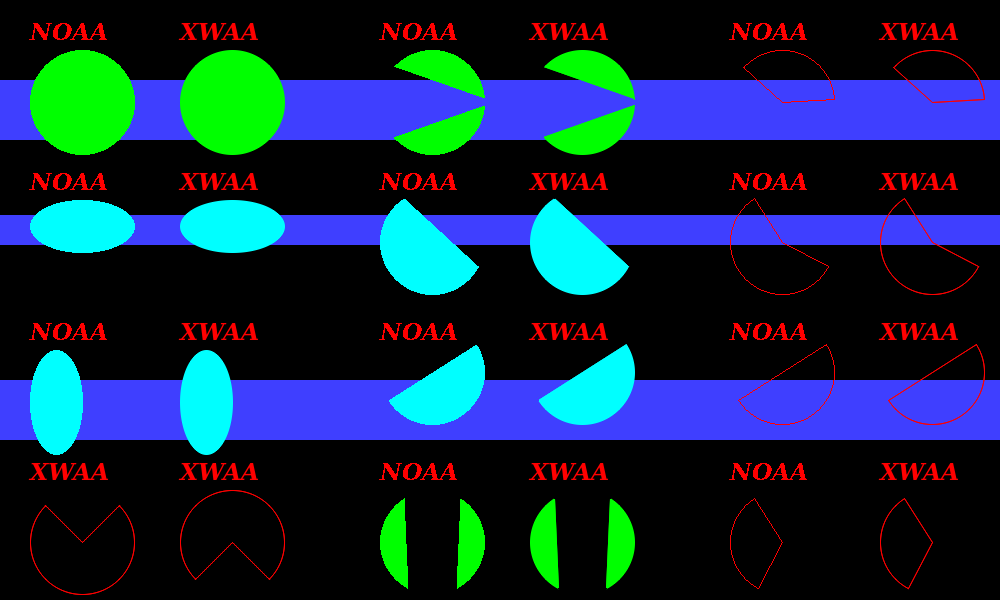
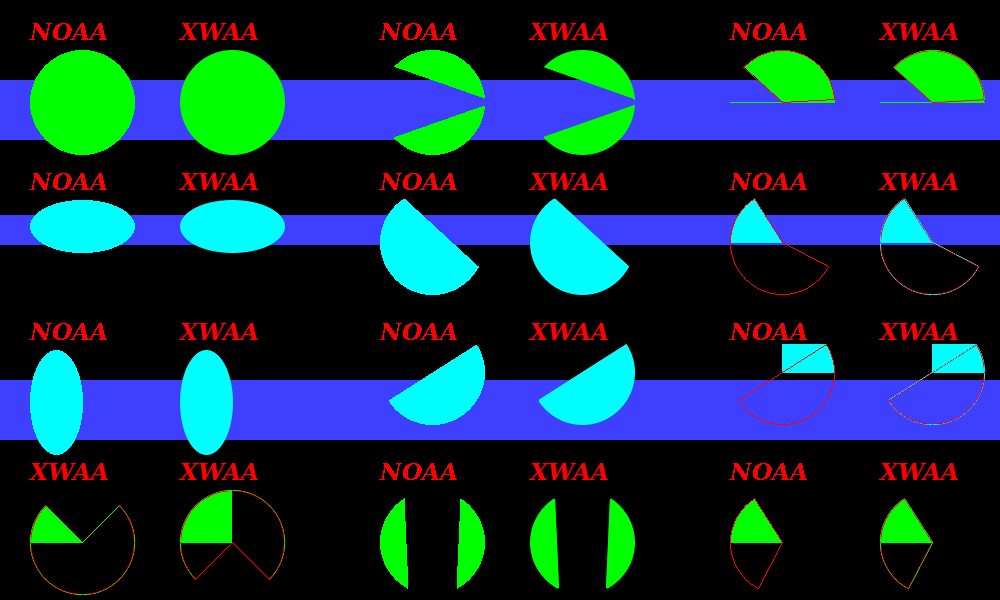
Working on fillArc - pie mode

diff --git a/src/Pt-Gfx/ImagePainter2_Arc.cpp b/src/Pt-Gfx/ImagePainter2_Arc.cpp
@@ -169,7 +169,12 @@ void ImagePainter2::fillArcPieImpl(FilledArcInfo& fai)
     // Exit here if we are not doing anti-aliasing
     if(!fai.antiAlias) return;
 
-    // ### TODO ###
+    // Draw the anti-aliased circumference pixels
+    arcUtil_drawCircumferencePixels(fai);
+
+    // Draw the closing lines
+    arcUtil_drawXWLine(fai, line1);
+    arcUtil_drawXWLine(fai, line2);
 }
 
 void ImagePainter2::arcUtil_findExactBegEndPointsCoordinate(FilledArcInfo& fai)
@@ -361,20 +366,12 @@ void ImagePainter2::arcUtil_cropAndStoreScanlineForChord(Scanlines& scanlines, c
         Pt::int32_t xrc = xr;
         if(lit != xwLine.points.end()) {
             if(xwLine.faceL) {
-                if(xwLine.steep) { // (X), (X + 1)
-                    if(xlc < lit->second.x + 1) xlc = lit->second.x + 1;
-                }
-                else { // (X)
-                    if(xlc <= lit->second.x) xlc = lit->second.x + 1;
-                }
+                if(xwLine.steep) { if(xlc <  lit->second.x + 1) xlc = lit->second.x + 1; } // (X), (X + 1)
+                else             { if(xlc <= lit->second.x    ) xlc = lit->second.x + 1; } // (X)
             }
             if(xwLine.faceR) {
-                if(xwLine.steep) { // (X), (X + 1)
-                    if(xrc > lit->second.x) xrc = lit->second.x;
-                }
-                else { // (X)
-                    if(xrc >= lit->second.x) xrc = lit->second.x - 1;
-                }
+                if(xwLine.steep) { if(xrc >  lit->second.x) xrc = lit->second.x;     } // (X), (X + 1)
+                else             { if(xrc >= lit->second.x) xrc = lit->second.x - 1; } // (X)
             }
         }
         // Store/update the scanline coordinates as needed
@@ -406,20 +403,12 @@ void ImagePainter2::arcUtil_cropAndStoreScanlineForChord(Scanlines& scanlines, c
         Pt::int32_t xrc = xr;
         if(lit != xwLine.points.end()) {
             if(xwLine.faceL) {
-                if(xwLine.steep) { // (X), (X + 1)
-                    if(xlc < lit->second.x + 1) xlc = lit->second.x + 1;
-                }
-                else { // (X)
-                    if(xlc <= lit->second.x) xlc = lit->second.x + 1;
-                }
+                if(xwLine.steep) { if(xlc <  lit->second.x + 1) xlc = lit->second.x + 1; } // (X), (X + 1)
+                else             { if(xlc <= lit->second.x    ) xlc = lit->second.x + 1; } // (X)
             }
             if(xwLine.faceR) {
-                if(xwLine.steep) { // (X), (X + 1)
-                    if(xrc > lit->second.x) xrc = lit->second.x;
-                }
-                else { // (X)
-                    if(xrc >= lit->second.x) xrc = lit->second.x - 1;
-                }
+                if(xwLine.steep) { if(xrc >  lit->second.x) xrc = lit->second.x;     } // (X), (X + 1)
+                else             { if(xrc >= lit->second.x) xrc = lit->second.x - 1; } // (X)
             }
         }
         // Store/update the scanline coordinates as needed
@@ -435,7 +424,6 @@ void ImagePainter2::arcUtil_cropAndStoreScanlineForChord(Scanlines& scanlines, c
         }
     }
 }
-
 
 void ImagePainter2::arcUtil_genScanlinesForPie(Scanlines& scanlines1, Scanlines& scanlines2, const FilledArcInfo& fai, const XWLineData& xwLine1, const XWLineData& xwLine2)
 {
@@ -487,6 +475,43 @@ void ImagePainter2::arcUtil_cropAndStoreScanlineForPie(Scanlines& scanlines1, Sc
     // For convenience
     typedef XWLineData::XWPoints::const_iterator XWPointsIterator;
 
+    // Store/update the scanline coordinates
+    // --- Left-line at top Y ---
+    if( (!xwLine1.faceT && !xwLine1.faceB) || (xwLine1.faceT && yt >= lineMinY) || (xwLine1.faceB && yt <= lineMaxY) ) {
+        // Get the element with the wanted coordinate
+        XWPointsIterator lwb = xwLine1.points.lower_bound(yt);
+        XWPointsIterator upb = xwLine1.points.upper_bound(yt);
+        XWPointsIterator lit = lwb;
+        for(XWPointsIterator cit = lwb; cit != upb; ++cit) {
+            if(xwLine1.faceL && cit->second.x > lit->second.x) lit = cit;
+            if(xwLine1.faceR && cit->second.x < lit->second.x) lit = cit;
+        }
+        // Crop the coordinates
+        Pt::int32_t xlc = xl;
+        Pt::int32_t xrc = xr;
+        if(lit != xwLine1.points.end()) {
+            if(xwLine1.faceL) {
+                if(xwLine1.steep) { if(xlc <  lit->second.x + 1) xlc = lit->second.x + 1; } // (X), (X + 1)
+                else              { if(xlc <= lit->second.x    ) xlc = lit->second.x + 1; } // (X)
+            }
+            if(xwLine1.faceR) {
+                if(xwLine1.steep) { if(xrc >  lit->second.x) xrc = lit->second.x;     } // (X), (X + 1)
+                else              { if(xrc >= lit->second.x) xrc = lit->second.x - 1; } // (X)
+            }
+        }
+        // Store/update the scanline coordinates as needed
+        if(xrc >= xlc) {
+            Scanlines::iterator sit = scanlines1.find(yt);
+            if(sit == scanlines1.end()) { // Insert a new element
+                scanlines1.insert( std::make_pair( yt, ScanlineElement(xlc, xrc) ) );
+            }
+            else { // Update the scanline's "from" and "to" coordinates
+                if( xlc < sit->second.from ) sit->second.from = xlc;
+                if( xrc > sit->second.to   ) sit->second.to   = xrc;
+            }
+        }
+    }
+
     /*
     // Store/update the scanline coordinates
     // --- Top Y ---
@@ -504,20 +529,12 @@ void ImagePainter2::arcUtil_cropAndStoreScanlineForPie(Scanlines& scanlines1, Sc
         Pt::int32_t xrc = xr;
         if(lit != xwLine.points.end()) {
             if(xwLine.faceL) {
-                if(xwLine.steep) { // (X), (X + 1)
-                    if(xlc < lit->second.x + 1) xlc = lit->second.x + 1;
-                }
-                else { // (X)
-                    if(xlc <= lit->second.x) xlc = lit->second.x + 1;
-                }
+                if(xwLine.steep) { if(xlc <  lit->second.x + 1) xlc = lit->second.x + 1; } // (X), (X + 1)
+                else             { if(xlc <= lit->second.x    ) xlc = lit->second.x + 1; } // (X)
             }
             if(xwLine.faceR) {
-                if(xwLine.steep) { // (X), (X + 1)
-                    if(xrc > lit->second.x) xrc = lit->second.x;
-                }
-                else { // (X)
-                    if(xrc >= lit->second.x) xrc = lit->second.x - 1;
-                }
+                if(xwLine.steep) { if(xrc >  lit->second.x) xrc = lit->second.x;     } // (X), (X + 1)
+                else             { if(xrc >= lit->second.x) xrc = lit->second.x - 1; } // (X)
             }
         }
         // Store/update the scanline coordinates as needed
@@ -549,20 +566,12 @@ void ImagePainter2::arcUtil_cropAndStoreScanlineForPie(Scanlines& scanlines1, Sc
         Pt::int32_t xrc = xr;
         if(lit != xwLine.points.end()) {
             if(xwLine.faceL) {
-                if(xwLine.steep) { // (X), (X + 1)
-                    if(xlc < lit->second.x + 1) xlc = lit->second.x + 1;
-                }
-                else { // (X)
-                    if(xlc <= lit->second.x) xlc = lit->second.x + 1;
-                }
+                if(xwLine.steep) { if(xlc <  lit->second.x + 1) xlc = lit->second.x + 1; } // (X), (X + 1)
+                else             { if(xlc <= lit->second.x    ) xlc = lit->second.x + 1; } // (X)
             }
             if(xwLine.faceR) {
-                if(xwLine.steep) { // (X), (X + 1)
-                    if(xrc > lit->second.x) xrc = lit->second.x;
-                }
-                else { // (X)
-                    if(xrc >= lit->second.x) xrc = lit->second.x - 1;
-                }
+                if(xwLine.steep) { if(xrc >  lit->second.x) xrc = lit->second.x;     } // (X), (X + 1)
+                else             { if(xrc >= lit->second.x) xrc = lit->second.x - 1; } // (X)
             }
         }
         // Store/update the scanline coordinates as needed
